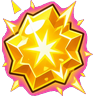
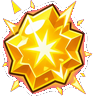
fix(f6): remove franja magenta dos PNG do brawl (tools/despill_modes.py)

diff --git a/tools/despill_modes.py b/tools/despill_modes.py
@@ -1,0 +1,58 @@
+# -*- coding: utf-8 -*-
+"""Remove a franja magenta (#FF00FF mal removido) das bordas dos PNG de assets/modes.
+
+Determinístico: só mexe numa faixa de BAND px junto da transparência.
+- magenta forte (r>150, b>150, g<120) em qualquer ponto -> alpha 0
+- magenta fraco (r e b acima do verde) na faixa -> despill: r,b limitados ao verde
+Uso: python tools/despill_modes.py  (rodar UMA vez sobre o original; rodar de novo corrói mais o halo do pad de vida)
+"""
+from __future__ import annotations
+from pathlib import Path
+import numpy as np
+from PIL import Image
+
+ROOT = Path(__file__).resolve().parents[1]
+FOLDERS = [ROOT / "assets/modes/brawl", ROOT / "assets/modes/duel"]
+BAND = 6
+
+
+def edge_band(alpha: np.ndarray, band: int) -> np.ndarray:
+    """True nos pixels a até `band` px (4-vizinhos) de um pixel quase transparente."""
+    out = alpha < 64
+    for _ in range(band):
+        grown = out.copy()
+        grown[1:, :] |= out[:-1, :]
+        grown[:-1, :] |= out[1:, :]
+        grown[:, 1:] |= out[:, :-1]
+        grown[:, :-1] |= out[:, 1:]
+        out = grown
+    return out
+
+
+def despill(im: Image.Image) -> tuple[Image.Image, int]:
+    arr = np.array(im.convert("RGBA"))
+    r = arr[:, :, 0].astype(np.int16)
+    g = arr[:, :, 1].astype(np.int16)
+    b = arr[:, :, 2].astype(np.int16)
+    a = arr[:, :, 3]
+    band = edge_band(a, BAND) & (a > 0)
+    strong = (a > 0) & (r > 150) & (b > 150) & (g < 120)
+    strong |= band & (r > 170) & (b > 90) & (g < 110) & (b > g + 30)
+    weak = band & ~strong & (r > g + 25) & (b > g + 25)
+    arr[:, :, 3][strong] = 0
+    arr[:, :, 0][weak] = np.minimum(r, g + 10)[weak].astype(np.uint8)
+    arr[:, :, 2][weak] = np.minimum(b, g + 10)[weak].astype(np.uint8)
+    return Image.fromarray(arr), int(strong.sum() + weak.sum())
+
+
+def main() -> None:
+    for folder in FOLDERS:
+        for p in sorted(folder.glob("*.png")):
+            out, n = despill(Image.open(p))
+            if n:
+                out.save(p, "PNG")
+            print("OK" if n else "--", p.relative_to(ROOT), n)
+
+
+if __name__ == "__main__":
+    main()
